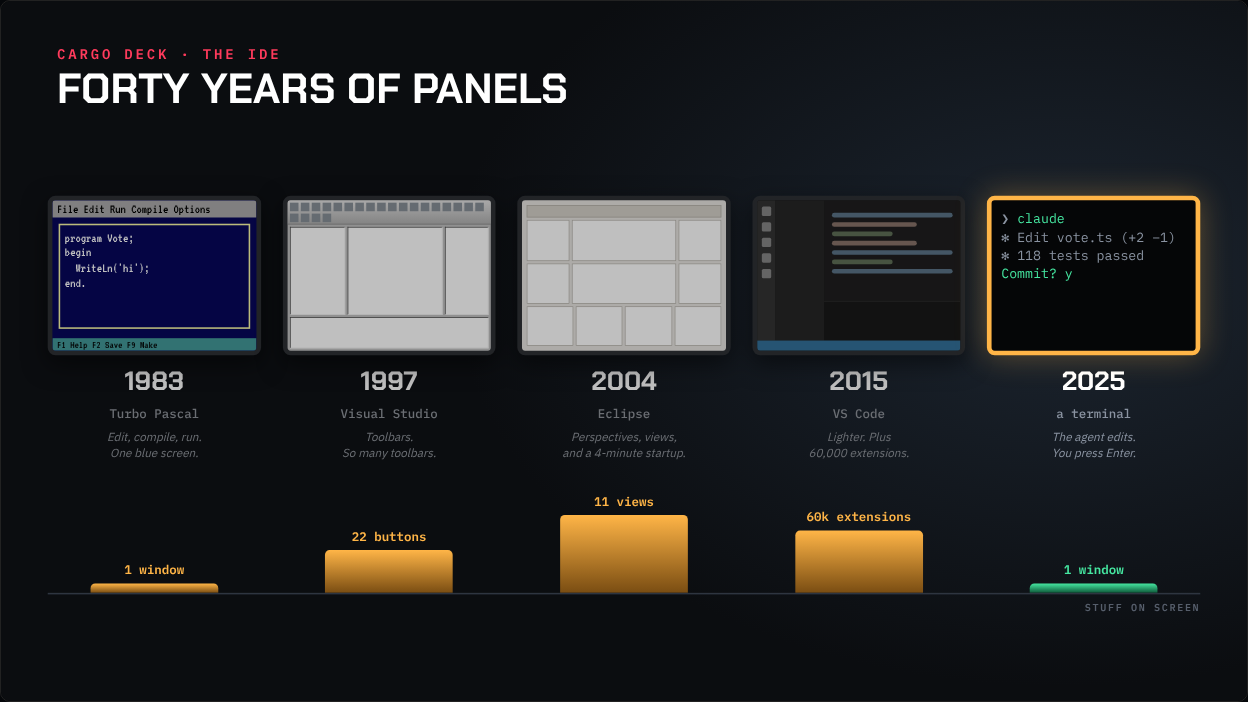
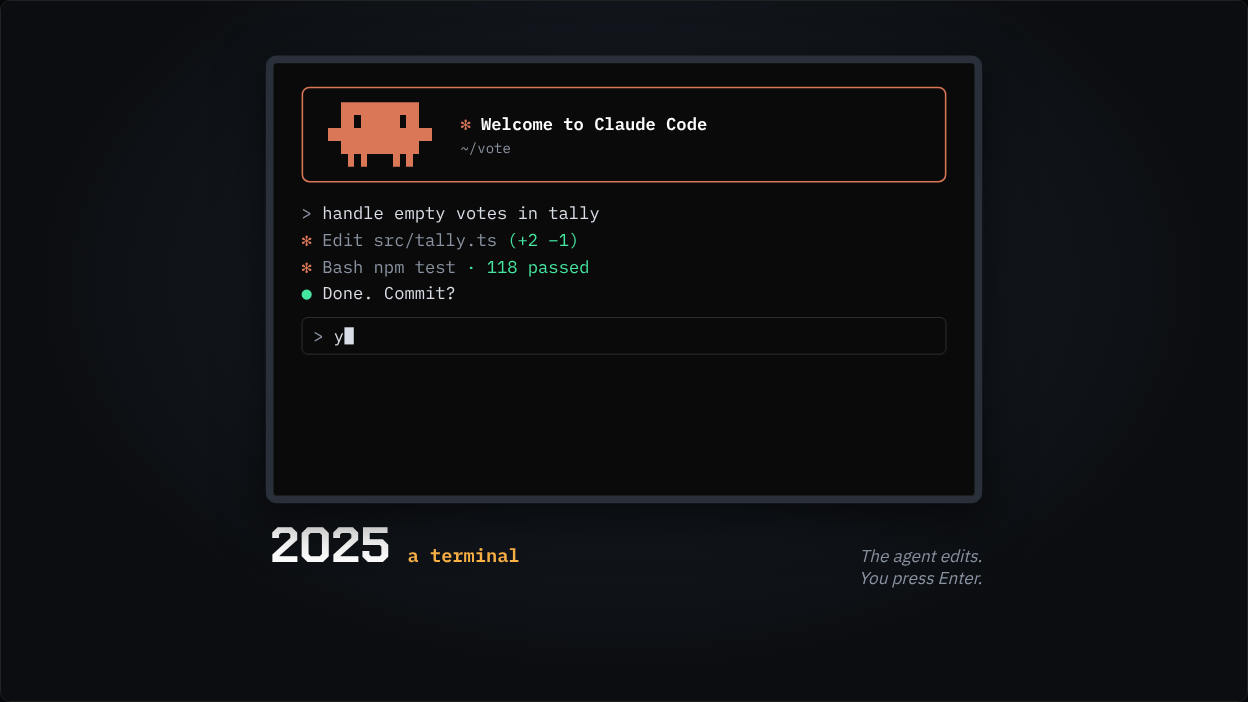
Mockups: IDE full circle, one era per screen, Claude Code mascot
Claude-Session: https://claude.ai/code/session_018ZYY71QbHcuRjYnMyN4ZYL

diff --git a/mockups/ide-fullcircle.html b/mockups/ide-fullcircle.html
@@ -8,7 +8,7 @@
 <style>
 :root {
   --bg: #0b0d10; --panel: #15191f; --line: #2e3540; --ink: #d9dee6; --muted: #8a93a1; --faint: #565e6b;
-  --awake: #45e6a0; --alien: #ff3b5c; --amber: #ffb547; --iso: #7fb8ff;
+  --awake: #45e6a0; --alien: #ff3b5c; --amber: #ffb547; --clawd: #d97757;
   --head: "Chakra Petch", "Eurostile", "Arial Narrow", sans-serif;
   --sans: "IBM Plex Sans", system-ui, sans-serif;
   --mono: "IBM Plex Mono", ui-monospace, Menlo, Consolas, monospace;
@@ -20,102 +20,178 @@ main { max-width: 1280px; margin: 0 auto; padding: 32px 16px 80px; }
 h1.page { font: 700 32px var(--head); margin: 0 0 6px; }
 p.lead { color: var(--muted); margin: 0 0 24px; line-height: 1.5; }
 .wrap { position: relative; width: 100%; aspect-ratio: 16 / 9; overflow: hidden; border-radius: 10px; border: 1px solid #222; cursor: pointer; }
-.slide { position: absolute; left: 0; top: 0; width: 1600px; height: 900px; transform-origin: 0 0; overflow: hidden; background: radial-gradient(1200px 800px at 85% 40%, #1c2530 0%, transparent 65%), var(--bg); }
+.slide { position: absolute; left: 0; top: 0; width: 1600px; height: 900px; transform-origin: 0 0; overflow: hidden; background: radial-gradient(1200px 800px at 50% 40%, #1c2530 0%, transparent 65%), var(--bg); }
 .ctl { display: flex; gap: 8px; align-items: center; margin-top: 8px; font: 600 13px var(--mono); color: var(--muted); flex-wrap: wrap; }
 .ctl button { font: 600 13px var(--mono); background: var(--panel); color: var(--ink); border: 1px solid var(--line); border-radius: 6px; padding: 6px 12px; cursor: pointer; }
 .ctl .cap { margin-left: 12px; }
-.hd { position: absolute; left: 72px; top: 56px; }
-.hd small { display: block; font: 600 18px var(--mono); letter-spacing: .2em; text-transform: uppercase; color: var(--alien); }
-.hd h3 { margin: 6px 0 0; font: 700 54px/1.05 var(--head); color: #fff; text-transform: uppercase; }
 
-.tl { position: absolute; left: 60px; right: 60px; top: 250px; display: grid; grid-template-columns: repeat(5, 1fr); gap: 28px; }
-.scr { display: grid; gap: 10px; justify-items: center; opacity: 0; transform: translateY(30px) scale(.92); transition: opacity .6s, transform .6s cubic-bezier(.3,1.4,.5,1), filter .6s; }
-.scr.in { opacity: 1; transform: none; }
-.scr.cur .mon { border-color: var(--amber); box-shadow: 0 0 40px rgba(255,181,71,.3); }
-.scr.past { filter: saturate(.5) brightness(.75); }
-.scr .mon { width: 100%; aspect-ratio: 4 / 3; border-radius: 10px; border: 6px solid #2a3039; overflow: hidden; position: relative; box-shadow: 0 10px 30px rgba(0,0,0,.5); transition: border-color .5s, box-shadow .5s; }
-.scr .y { font: 700 34px var(--head); color: #fff; }
-.scr .n { font: 500 16px var(--mono); color: var(--muted); text-align: center; }
-.scr .q { font: 400 15px/1.4 var(--sans); color: var(--muted); text-align: center; min-height: 42px; font-style: italic; }
+.era { position: absolute; left: 340px; top: 70px; width: 920px; opacity: 0; transform: scale(.94); transition: opacity .6s, transform .9s cubic-bezier(.5,0,.2,1); pointer-events: none; }
+.era.show { opacity: 1; transform: none; }
+.mon { width: 920px; height: 575px; border-radius: 14px; border: 10px solid #2a3039; overflow: hidden; position: relative; box-shadow: 0 20px 60px rgba(0,0,0,.6); transition: border-color .6s, box-shadow .6s; }
+.lbl { display: flex; align-items: baseline; gap: 22px; margin-top: 22px; padding-left: 6px; }
+.lbl .y { font: 700 64px/1 var(--head); color: #fff; }
+.lbl .n { font: 600 24px var(--mono); color: var(--amber); }
+.lbl .q { margin-left: auto; font: 400 22px var(--sans); color: var(--muted); font-style: italic; text-align: right; }
 
-.chart { position: absolute; left: 60px; right: 60px; top: 640px; height: 120px; display: grid; grid-template-columns: repeat(5, 1fr); gap: 28px; align-items: end; }
-.chart .b { justify-self: center; width: 60%; height: 0; border-radius: 6px 6px 0 0; background: linear-gradient(var(--amber), #7a4d12); position: relative; transition: height .9s cubic-bezier(.3,1.2,.5,1); }
-.chart .b span { position: absolute; left: 0; right: 0; top: -28px; text-align: center; font: 600 16px var(--mono); color: var(--amber); opacity: 0; transition: opacity .4s .5s; }
-.chart .b.in span { opacity: 1; }
-.chart .b.g { background: linear-gradient(var(--awake), #0e5a3a); } .chart .b.g span { color: var(--awake); }
-.axis { position: absolute; left: 60px; right: 60px; top: 760px; border-top: 2px solid var(--line); }
-.axis small { position: absolute; right: 0; top: 8px; font: 600 13px var(--mono); letter-spacing: .16em; text-transform: uppercase; color: var(--faint); }
-
-.m83 { background: #0000aa; font: 17px/1.15 var(--crt); color: #ffff55; }
-.m83 .mb { background: #aaaaaa; color: #000; padding: 1px 6px; }
-.m83 .bx { margin: 8px; border: 2px double #ffff55; height: 70%; padding: 6px; color: #fff; }
-.m83 .st { position: absolute; bottom: 0; left: 0; right: 0; background: #00aaaa; color: #000; padding: 0 6px; font-size: 14px; }
-.mvs { background: #c0c0c0; }
-.mvs .tb { height: 16%; background: linear-gradient(#e0e0e0,#b0b0b0); border-bottom: 1px solid #808080; display: flex; flex-wrap: wrap; gap: 3px; padding: 3px; }
-.mvs .tb i { width: 11px; height: 11px; background: #8090a0; }
-.mvs .bd { position: absolute; inset: 16% 0 0 0; display: grid; grid-template-columns: 28% 1fr 22%; grid-template-rows: 1fr 26%; gap: 3px; padding: 3px; }
-.mvs .bd div { background: #fff; border: 1px inset #999; } .mvs .bd .o { grid-column: 1 / -1; }
-.mec { background: #e8e4dc; }
-.mec .bd { position: absolute; inset: 6px; display: grid; grid-template-columns: 22% 1fr 22%; grid-template-rows: 9% 1fr 1fr 28%; gap: 3px; }
-.mec .bd div { background: #fff; border: 1px solid #b8b0a0; } .mec .bd .t { grid-column: 1 / -1; background: #d8d0c0; }
-.mec .bd .b { grid-column: 1 / -1; display: grid; grid-template-columns: 1fr 1fr 1fr 1fr; gap: 3px; background: none; border: 0; }
-.mvc { background: #1e1e1e; }
-.mvc .bd { position: absolute; inset: 0; display: grid; grid-template-columns: 9% 24% 1fr; grid-template-rows: 1fr 26% 7%; }
-.mvc .bd .ab { background: #333; grid-row: 1 / 3; display: grid; align-content: start; gap: 8px; padding: 8px 0; justify-items: center; }
-.mvc .bd .ab i { width: 12px; height: 12px; border-radius: 2px; background: #858585; }
-.mvc .bd .sb { background: #252526; grid-row: 1 / 3; }
-.mvc .bd .ed { background: #1e1e1e; padding: 10px; } .mvc .bd .ed i { display: block; height: 6px; margin: 6px 0; border-radius: 3px; background: #569cd6; opacity: .7; }
-.mvc .bd .ed i:nth-child(2n) { width: 70%; background: #ce9178; } .mvc .bd .ed i:nth-child(3n) { width: 50%; background: #6a9955; }
-.mvc .bd .tm { background: #181818; border-top: 1px solid #333; } .mvc .bd .st { grid-column: 1 / -1; background: #007acc; }
-.m25 { background: #050607; padding: 12px; font: 17px/1.4 var(--mono); color: var(--awake); }
-.m25 .d { color: var(--muted); }
-.cur-b { display: inline-block; width: 9px; height: 17px; background: currentColor; vertical-align: -3px; animation: blink 1s steps(1) infinite; }
-@keyframes blink { 50% { opacity: 0; } }
-
+.done .e0 { opacity: 1; transform: translate(-300px, 70px) scale(.6); }
+.done .e4 { opacity: 1; transform: translate(300px, 70px) scale(.6); }
+.done .e0 .mon, .done .e4 .mon { border-color: var(--awake); box-shadow: 0 0 70px rgba(69,230,160,.4); }
+.done .lbl .q { opacity: 0; }
 .arc { position: absolute; left: 0; top: 0; width: 1600px; height: 900px; pointer-events: none; }
-.arc path { fill: none; stroke: var(--awake); stroke-width: 4; stroke-dasharray: 1500; stroke-dashoffset: 1500; transition: stroke-dashoffset 1.6s ease; }
+.arc path { fill: none; stroke: var(--awake); stroke-width: 5; stroke-linecap: round; stroke-dasharray: 1300; stroke-dashoffset: 1300; transition: stroke-dashoffset 1.6s ease .6s; }
 .done .arc path { stroke-dashoffset: 0; }
-.done .scr:not(.s0):not(.s4) { opacity: .25; }
-.done .s0 .mon, .done .s4 .mon { border-color: var(--awake); box-shadow: 0 0 40px rgba(69,230,160,.35); }
-.done .s0, .done .s4 { filter: none; }
-.done .chart, .done .axis { opacity: 0; }
-.chart, .axis { transition: opacity .6s; }
-.fc { position: absolute; left: 0; right: 0; top: 790px; text-align: center; font: 700 40px var(--head); text-transform: uppercase; color: #fff; opacity: 0; transition: opacity .6s 1s; }
+.fc { position: absolute; left: 0; right: 0; top: 740px; text-align: center; font: 700 52px var(--head); text-transform: uppercase; color: #fff; opacity: 0; transition: opacity .6s 1.6s; }
 .fc em { font-style: normal; color: var(--awake); }
 .done .fc { opacity: 1; }
+.cur-b { display: inline-block; width: .55em; height: 1em; background: currentColor; vertical-align: -.15em; animation: blink 1s steps(1) infinite; }
+@keyframes blink { 50% { opacity: 0; } }
+
+/* 1983 Turbo Pascal */
+.m83 { background: #0000aa; font: 30px/1.15 var(--crt); color: #ffff55; }
+.m83 .mb { background: #aaaaaa; color: #000; padding: 2px 12px; display: flex; gap: 28px; }
+.m83 .mb b { color: #aa0000; font-weight: 400; }
+.m83 .bx { position: absolute; inset: 44px 14px 40px; border: 3px double #ffff55; padding: 14px 20px; color: #fff; }
+.m83 .bx .t { position: absolute; top: -18px; left: 50%; transform: translateX(-50%); background: #0000aa; padding: 0 10px; color: #ffff55; }
+.m83 .kw { color: #ffff55; }
+.m83 .st { position: absolute; bottom: 0; left: 0; right: 0; background: #00aaaa; color: #000; padding: 2px 12px; display: flex; gap: 30px; }
+
+/* 1997 Visual Studio */
+.mvs { background: #c0c0c0; font: 13px "Tahoma", "MS Sans Serif", sans-serif; color: #000; }
+.mvs .tt { height: 24px; background: linear-gradient(90deg, #000080, #1084d0); color: #fff; font-weight: 700; padding: 4px 8px; }
+.mvs .mn { display: flex; gap: 16px; padding: 3px 8px; border-bottom: 1px solid #808080; }
+.mvs .tb { display: flex; flex-wrap: wrap; gap: 3px; padding: 4px 6px; border-bottom: 1px solid #808080; }
+.mvs .tb i { width: 20px; height: 20px; background: linear-gradient(135deg, #dcdcdc, #9aa4b0); border: 1px outset #fff; }
+.mvs .tb i:nth-child(5n) { background: linear-gradient(135deg, #ffd860, #c09020); } .mvs .tb i:nth-child(7n) { background: linear-gradient(135deg, #8ab4ff, #2050b0); } .mvs .tb i:nth-child(11n) { margin-right: 10px; }
+.mvs .bd { position: absolute; top: 108px; left: 0; right: 0; bottom: 22px; display: grid; grid-template-columns: 210px 1fr 190px; grid-template-rows: 1fr 120px; gap: 4px; padding: 4px; }
+.mvs .p { background: #fff; border: 2px inset #ddd; padding: 6px; font-size: 12px; line-height: 1.6; overflow: hidden; }
+.mvs .p h5 { margin: -6px -6px 6px; padding: 2px 6px; background: #808080; color: #fff; font-size: 12px; }
+.mvs .code { font: 13px/1.6 "Courier New", monospace; } .mvs .code .k { color: #0000ff; } .mvs .code .c { color: #008000; }
+.mvs .o { grid-column: 1 / -1; font: 12px/1.5 "Courier New", monospace; }
+.mvs .sb { position: absolute; bottom: 0; left: 0; right: 0; height: 22px; border-top: 1px solid #fff; padding: 3px 8px; font-size: 12px; }
+
+/* 2004 Eclipse */
+.mec { background: #ece9d8; font: 12px "Tahoma", sans-serif; color: #000; }
+.mec .mn { display: flex; gap: 14px; padding: 3px 8px; }
+.mec .tb { display: flex; gap: 3px; padding: 3px 6px; border-bottom: 1px solid #aca899; }
+.mec .tb i { width: 18px; height: 18px; border-radius: 3px; background: linear-gradient(135deg, #e8e4d4, #a8a090); }
+.mec .tb i:nth-child(4n) { background: linear-gradient(135deg, #b8e0a0, #4a9a30); } .mec .tb i:nth-child(6n) { background: linear-gradient(135deg, #ffd0a0, #d06020); }
+.mec .persp { position: absolute; right: 8px; top: 24px; display: flex; gap: 4px; } .mec .persp span { border: 1px solid #aca899; padding: 1px 6px; background: #fff; border-radius: 3px; }
+.mec .bd { position: absolute; top: 52px; left: 0; right: 0; bottom: 20px; display: grid; grid-template-columns: 190px 1fr 180px; grid-template-rows: 1fr 1fr 150px; gap: 4px; padding: 4px; }
+.mec .v { background: #fff; border: 1px solid #7f9db9; overflow: hidden; display: flex; flex-direction: column; }
+.mec .v .tabs { display: flex; background: linear-gradient(#f4f3ee, #dcd9c8); border-bottom: 1px solid #7f9db9; }
+.mec .v .tabs span { padding: 2px 8px; border-right: 1px solid #c0bcae; white-space: nowrap; } .mec .v .tabs span.a { background: #fff; font-weight: 700; }
+.mec .v .c { padding: 5px 8px; line-height: 1.55; font-size: 11.5px; color: #333; }
+.mec .ed { grid-row: 1 / 3; } .mec .ed .c { font: 12.5px/1.6 "Courier New", monospace; } .mec .ed .k { color: #7f0055; font-weight: 700; } .mec .ed .s { color: #2a00ff; }
+.mec .tree { grid-row: 1 / 3; }
+.mec .bot { grid-column: 1 / -1; }
+.mec .sb { position: absolute; bottom: 0; left: 0; right: 0; height: 20px; padding: 2px 8px; border-top: 1px solid #aca899; }
+
+/* 2015 VS Code */
+.mvc { background: #1e1e1e; font: 13px "Segoe UI", system-ui, sans-serif; color: #ccc; }
+.mvc .bd { position: absolute; inset: 0 0 24px 0; display: grid; grid-template-columns: 52px 240px 1fr; grid-template-rows: 34px 1fr 160px; }
+.mvc .ab { background: #333; grid-row: 1 / 4; display: grid; align-content: start; gap: 22px; padding: 16px 0; justify-items: center; }
+.mvc .ab i { width: 24px; height: 24px; border-radius: 4px; border: 2px solid #858585; } .mvc .ab i:first-child { border-color: #fff; }
+.mvc .side { background: #252526; grid-row: 1 / 4; padding: 10px 14px; line-height: 1.85; font-size: 13px; } .mvc .side h5 { margin: 0 0 4px; font-size: 11px; letter-spacing: .1em; color: #bbb; }
+.mvc .tabs { display: flex; background: #252526; } .mvc .tabs span { padding: 8px 16px; background: #2d2d2d; border-right: 1px solid #1e1e1e; } .mvc .tabs span.a { background: #1e1e1e; color: #fff; }
+.mvc .ed { padding: 10px 0 0 20px; font: 15px/1.7 "Consolas", var(--mono); color: #d4d4d4; white-space: pre; }
+.mvc .ed .k { color: #569cd6; } .mvc .ed .f { color: #dcdcaa; } .mvc .ed .s { color: #ce9178; } .mvc .ed .c { color: #6a9955; } .mvc .ed .t { color: #4ec9b0; }
+.mvc .ed .sq { text-decoration: underline wavy #f14c4c; }
+.mvc .pop { position: absolute; left: 480px; top: 172px; width: 280px; background: #252526; border: 1px solid #454545; box-shadow: 0 6px 20px rgba(0,0,0,.5); font: 13px/1.9 var(--mono); }
+.mvc .pop div { padding: 0 10px; } .mvc .pop .a { background: #094771; color: #fff; }
+.mvc .term { border-top: 1px solid #333; padding: 8px 20px; font: 13px/1.6 var(--mono); color: #ccc; } .mvc .term .h { display: flex; gap: 20px; font: 11px var(--sans); letter-spacing: .08em; color: #888; margin-bottom: 6px; } .mvc .term .h b { color: #fff; border-bottom: 1px solid #fff; font-weight: 400; }
+.mvc .st { position: absolute; bottom: 0; left: 0; right: 0; height: 24px; background: #007acc; color: #fff; display: flex; gap: 20px; padding: 3px 12px; font-size: 12px; }
+
+/* 2025 terminal + Claude Code */
+.m25 { background: #0a0a0a; padding: 30px 36px; font: 22px/1.55 var(--mono); color: var(--ink); }
+.m25 .box { border: 2px solid var(--clawd); border-radius: 10px; padding: 18px 24px; display: flex; gap: 28px; align-items: center; margin-bottom: 22px; }
+.m25 .box svg { width: 150px; height: auto; flex: none; }
+.m25 .box b { color: #fff; font-weight: 600; } .m25 .box small { display: block; color: var(--muted); font-size: 18px; }
+.m25 .d { color: var(--muted); } .m25 .o { color: var(--clawd); } .m25 .g { color: var(--awake); }
+.m25 .prompt { margin-top: 14px; border: 1px solid #3a3a3a; border-radius: 8px; padding: 6px 14px; }
 </style>
 </head>
 <body>
 <main>
 <h1 class="page">The IDE · full circle</h1>
-<p class="lead">One click per era. The panel count grows each decade, then 2025 drops back to a single text window, like 1983. Last click draws the circle.</p>
+<p class="lead">One era per click, each on its own. Last click: 1983 and 2025 side by side, full circle.</p>
 <div class="wrap"><div class="slide" id="s">
-  <div class="hd"><small>Cargo deck · The IDE</small><h3>Forty years of panels</h3></div>
-  <svg class="arc" viewBox="0 0 1600 900"><path d="M190 640 C 400 800, 1200 800, 1410 640"/></svg>
-  <div class="tl">
-    <div class="scr s0"><div class="mon m83"><div class="mb"> File  Edit  Run  Compile  Options</div><div class="bx">program Vote;<br>begin<br>&nbsp;&nbsp;WriteLn('hi');<br>end.<span class="cur-b"></span></div><div class="st">F1 Help  F2 Save  F9 Make</div></div><div class="y">1983</div><div class="n">Turbo Pascal</div><div class="q">Edit, compile, run.<br>One blue screen.</div></div>
-    <div class="scr s1"><div class="mon mvs"><div class="tb"><i></i><i></i><i></i><i></i><i></i><i></i><i></i><i></i><i></i><i></i><i></i><i></i><i></i><i></i><i></i><i></i><i></i><i></i><i></i><i></i><i></i><i></i></div><div class="bd"><div></div><div></div><div></div><div class="o"></div></div></div><div class="y">1997</div><div class="n">Visual Studio</div><div class="q">Toolbars.<br>So many toolbars.</div></div>
-    <div class="scr s2"><div class="mon mec"><div class="bd"><div class="t"></div><div></div><div></div><div></div><div></div><div></div><div></div><div class="b"><div></div><div></div><div></div><div></div></div></div></div><div class="y">2004</div><div class="n">Eclipse</div><div class="q">Perspectives, views,<br>and a 4-minute startup.</div></div>
-    <div class="scr s3"><div class="mon mvc"><div class="bd"><div class="ab"><i></i><i></i><i></i><i></i><i></i></div><div class="sb"></div><div class="ed"><i></i><i></i><i></i><i></i><i></i><i></i><i></i></div><div class="tm"></div><div class="st"></div></div></div><div class="y">2015</div><div class="n">VS Code</div><div class="q">Lighter. Plus<br>60,000 extensions.</div></div>
-    <div class="scr s4"><div class="mon m25"><span class="d">❯</span> claude<br><span class="d">✻ Edit vote.ts (+2 −1)</span><br><span class="d">✻ 118 tests passed</span><br>Commit? y<br><span class="cur-b"></span></div><div class="y">2025</div><div class="n">a terminal</div><div class="q">The agent edits.<br>You press Enter.</div></div>
-  </div>
-  <div class="chart"><div class="b" data-h="12"><span>1 window</span></div><div class="b" data-h="55"><span>22 buttons</span></div><div class="b" data-h="100"><span>11 views</span></div><div class="b" data-h="80"><span>60k extensions</span></div><div class="b g" data-h="12"><span>1 window</span></div></div>
-  <div class="axis"><small>stuff on screen</small></div>
+
+  <div class="era e0"><div class="mon m83">
+    <div class="mb"><span><b>F</b>ile</span><span><b>E</b>dit</span><span><b>R</b>un</span><span><b>C</b>ompile</span><span><b>O</b>ptions</span></div>
+    <div class="bx"><span class="t">VOTE.PAS</span><span class="kw">program</span> Vote;<br><span class="kw">var</span> total: Integer;<br><span class="kw">begin</span><br>&nbsp;&nbsp;total := 0;<br>&nbsp;&nbsp;WriteLn('Votes: ', total);<br><span class="kw">end</span>.<span class="cur-b"></span></div>
+    <div class="st"><span>F1 Help</span><span>F2 Save</span><span>F3 Load</span><span>F9 Make</span><span>F10 Menu</span></div>
+  </div><div class="lbl"><span class="y">1983</span><span class="n">Turbo Pascal</span><span class="q">Edit, compile, run.<br>One blue screen.</span></div></div>
+
+  <div class="era e1"><div class="mon mvs">
+    <div class="tt">Microsoft Developer Studio - Vote - [vote.cpp]</div>
+    <div class="mn"><span>File</span><span>Edit</span><span>View</span><span>Insert</span><span>Project</span><span>Build</span><span>Tools</span><span>Window</span><span>Help</span></div>
+    <div class="tb"><i></i><i></i><i></i><i></i><i></i><i></i><i></i><i></i><i></i><i></i><i></i><i></i><i></i><i></i><i></i><i></i><i></i><i></i><i></i><i></i><i></i><i></i><i></i><i></i><i></i><i></i><i></i><i></i><i></i><i></i><i></i><i></i><i></i><i></i><i></i><i></i><i></i><i></i><i></i><i></i><i></i><i></i><i></i><i></i></div>
+    <div class="bd">
+      <div class="p"><h5>Workspace</h5>📁 Vote files<br>&nbsp;&nbsp;📁 Source Files<br>&nbsp;&nbsp;&nbsp;&nbsp;📄 vote.cpp<br>&nbsp;&nbsp;&nbsp;&nbsp;📄 tally.cpp<br>&nbsp;&nbsp;📁 Header Files<br>&nbsp;&nbsp;📁 Resource Files</div>
+      <div class="p code"><span class="k">#include</span> &lt;stdio.h&gt;<br><br><span class="k">int</span> tally(<span class="k">int</span>* v, <span class="k">int</span> n) {<br>&nbsp;&nbsp;<span class="k">int</span> total = 0;<br>&nbsp;&nbsp;<span class="k">for</span> (<span class="k">int</span> i = 0; i &lt; n; i++)<br>&nbsp;&nbsp;&nbsp;&nbsp;total += v[i];<br>&nbsp;&nbsp;<span class="k">return</span> total; <span class="c">// TODO</span><br>}</div>
+      <div class="p"><h5>Properties</h5>Name: tally<br>Type: int<br>Calling: __cdecl<br>Inline: No<br>Debug: Yes</div>
+      <div class="p o"><h5>Output</h5>--------------------Configuration: Vote - Win32 Debug--------------------<br>Compiling...<br>vote.cpp<br>Vote.exe - 0 error(s), 3 warning(s)</div>
+    </div>
+    <div class="sb">Ready</div>
+  </div><div class="lbl"><span class="y">1997</span><span class="n">Visual Studio</span><span class="q">Toolbars.<br>So many toolbars.</span></div></div>
+
+  <div class="era e2"><div class="mon mec">
+    <div class="mn"><span>File</span><span>Edit</span><span>Source</span><span>Refactor</span><span>Navigate</span><span>Search</span><span>Project</span><span>Run</span><span>Window</span><span>Help</span></div>
+    <div class="tb"><i></i><i></i><i></i><i></i><i></i><i></i><i></i><i></i><i></i><i></i><i></i><i></i><i></i><i></i><i></i><i></i><i></i><i></i></div>
+    <div class="persp"><span>Java</span><span>Debug</span><span>CVS</span><span>Team Sync</span></div>
+    <div class="bd">
+      <div class="v tree"><div class="tabs"><span class="a">Package Explorer</span><span>Hierarchy</span></div><div class="c">▾ vote<br>&nbsp;&nbsp;▾ src<br>&nbsp;&nbsp;&nbsp;&nbsp;▾ be.vote<br>&nbsp;&nbsp;&nbsp;&nbsp;&nbsp;&nbsp;Vote.java<br>&nbsp;&nbsp;&nbsp;&nbsp;&nbsp;&nbsp;Tally.java<br>&nbsp;&nbsp;&nbsp;&nbsp;&nbsp;&nbsp;TallyFactory.java<br>&nbsp;&nbsp;&nbsp;&nbsp;&nbsp;&nbsp;TallyFactoryImpl.java<br>&nbsp;&nbsp;▸ JRE System Library<br>&nbsp;&nbsp;▸ lib</div></div>
+      <div class="v ed"><div class="tabs"><span class="a">Tally.java</span><span>Vote.java</span><span>TallyFactoryImpl.java</span></div><div class="c"><span class="k">public class</span> Tally {<br>&nbsp;&nbsp;<span class="k">private final</span> List&lt;Vote&gt; votes;<br><br>&nbsp;&nbsp;<span class="k">public int</span> total() {<br>&nbsp;&nbsp;&nbsp;&nbsp;<span class="k">int</span> t = 0;<br>&nbsp;&nbsp;&nbsp;&nbsp;<span class="k">for</span> (Vote v : votes) t += v.n();<br>&nbsp;&nbsp;&nbsp;&nbsp;<span class="k">return</span> t;<br>&nbsp;&nbsp;}<br>}</div></div>
+      <div class="v"><div class="tabs"><span class="a">Outline</span></div><div class="c">◆ Tally<br>&nbsp;&nbsp;▫ votes<br>&nbsp;&nbsp;● total()</div></div>
+      <div class="v"><div class="tabs"><span class="a">Ant</span><span>Tasks</span></div><div class="c">▸ build.xml<br>&nbsp;&nbsp;compile<br>&nbsp;&nbsp;jar</div></div>
+      <div class="v bot"><div class="tabs"><span class="a">Problems</span><span>Javadoc</span><span>Declaration</span><span>Console</span><span>Search</span><span>Progress</span></div><div class="c">⚠ 47 warnings<br>⚠ The import java.util.Date is never used<br>⚠ Serializable class Tally does not declare a serialVersionUID</div></div>
+    </div>
+    <div class="sb">Building workspace (63%)</div>
+  </div><div class="lbl"><span class="y">2004</span><span class="n">Eclipse</span><span class="q">Perspectives, views,<br>and a 4-minute startup.</span></div></div>
+
+  <div class="era e3"><div class="mon mvc">
+    <div class="bd">
+      <div class="ab"><i></i><i></i><i></i><i></i><i></i></div>
+      <div class="side"><h5>EXPLORER</h5>▾ VOTE<br>&nbsp;&nbsp;▾ src<br>&nbsp;&nbsp;&nbsp;&nbsp;vote.ts<br>&nbsp;&nbsp;&nbsp;&nbsp;tally.ts<br>&nbsp;&nbsp;▸ node_modules<br>&nbsp;&nbsp;package.json<br>&nbsp;&nbsp;tsconfig.json<br><br><h5>EXTENSIONS · 47 INSTALLED</h5>Prettier<br>ESLint<br>GitLens<br>Copilot</div>
+      <div class="tabs"><span class="a">tally.ts</span><span>vote.ts</span><span>package.json</span></div>
+      <div class="ed"><span class="k">export function</span> <span class="f">tally</span>(votes: <span class="t">Vote</span>[]) {
+  <span class="k">const</span> total = votes.<span class="f">reduce</span>((a, v) =&gt; a + v.n, 0)
+  <span class="k">return</span> votes.<span class="f">ma</span><span class="cur-b"></span>
+}
+<span class="c">// TODO: handle empty votes</span></div>
+      <div class="term"><div class="h"><b>TERMINAL</b><span>PROBLEMS 1</span><span>OUTPUT</span><span>DEBUG CONSOLE</span></div>$ npm run dev<br>ready on :5173</div>
+    </div>
+    <div class="pop"><div class="a">⬡ map</div><div>⬡ filter</div><div>⬡ flatMap</div><div>⬡ find</div></div>
+    <div class="st"><span>⎇ main</span><span>⊗ 0 ⚠ 1</span><span style="margin-left:auto">Ln 3, Col 22</span><span>TypeScript</span><span>Prettier ✓</span></div>
+  </div><div class="lbl"><span class="y">2015</span><span class="n">VS Code</span><span class="q">Lighter. Plus<br>60,000 extensions.</span></div></div>
+
+  <div class="era e4"><div class="mon m25">
+    <div class="box">
+      <svg viewBox="0 0 18 10" shape-rendering="crispEdges" aria-label="Claude Code mascot"><g fill="#d97757"><rect x="3" y="0" width="1" height="2"/><rect x="4" y="0" width="1" height="2"/><rect x="5" y="0" width="1" height="2"/><rect x="6" y="0" width="1" height="2"/><rect x="7" y="0" width="1" height="2"/><rect x="8" y="0" width="1" height="2"/><rect x="9" y="0" width="1" height="2"/><rect x="10" y="0" width="1" height="2"/><rect x="11" y="0" width="1" height="2"/><rect x="12" y="0" width="1" height="2"/><rect x="13" y="0" width="1" height="2"/><rect x="14" y="0" width="1" height="2"/><rect x="3" y="2" width="1" height="2"/><rect x="4" y="2" width="1" height="2"/><rect x="6" y="2" width="1" height="2"/><rect x="7" y="2" width="1" height="2"/><rect x="8" y="2" width="1" height="2"/><rect x="9" y="2" width="1" height="2"/><rect x="10" y="2" width="1" height="2"/><rect x="11" y="2" width="1" height="2"/><rect x="13" y="2" width="1" height="2"/><rect x="14" y="2" width="1" height="2"/><rect x="1" y="4" width="1" height="2"/><rect x="2" y="4" width="1" height="2"/><rect x="3" y="4" width="1" height="2"/><rect x="4" y="4" width="1" height="2"/><rect x="5" y="4" width="1" height="2"/><rect x="6" y="4" width="1" height="2"/><rect x="7" y="4" width="1" height="2"/><rect x="8" y="4" width="1" height="2"/><rect x="9" y="4" width="1" height="2"/><rect x="10" y="4" width="1" height="2"/><rect x="11" y="4" width="1" height="2"/><rect x="12" y="4" width="1" height="2"/><rect x="13" y="4" width="1" height="2"/><rect x="14" y="4" width="1" height="2"/><rect x="15" y="4" width="1" height="2"/><rect x="16" y="4" width="1" height="2"/><rect x="3" y="6" width="1" height="2"/><rect x="4" y="6" width="1" height="2"/><rect x="5" y="6" width="1" height="2"/><rect x="6" y="6" width="1" height="2"/><rect x="7" y="6" width="1" height="2"/><rect x="8" y="6" width="1" height="2"/><rect x="9" y="6" width="1" height="2"/><rect x="10" y="6" width="1" height="2"/><rect x="11" y="6" width="1" height="2"/><rect x="12" y="6" width="1" height="2"/><rect x="13" y="6" width="1" height="2"/><rect x="14" y="6" width="1" height="2"/><rect x="4" y="8" width="1" height="2"/><rect x="6" y="8" width="1" height="2"/><rect x="11" y="8" width="1" height="2"/><rect x="13" y="8" width="1" height="2"/></g></svg>
+      <div><b><span class="o">✻</span> Welcome to Claude Code</b><small>~/vote</small></div>
+    </div>
+    <div><span class="d">&gt;</span> handle empty votes in tally</div>
+    <div class="d"><span class="o">✻</span> Edit src/tally.ts <span class="g">(+2 −1)</span></div>
+    <div class="d"><span class="o">✻</span> Bash npm test <span class="g">· 118 passed</span></div>
+    <div><span class="g">●</span> Done. Commit?</div>
+    <div class="prompt"><span class="d">&gt;</span> y<span class="cur-b"></span></div>
+  </div><div class="lbl"><span class="y">2025</span><span class="n">a terminal</span><span class="q">The agent edits.<br>You press Enter.</span></div></div>
+
+  <svg class="arc" viewBox="0 0 1600 900"><path d="M500 262 C 640 110, 960 110, 1100 262"/></svg>
   <div class="fc">Full circle: <em>a text screen and a blinking cursor.</em></div>
 </div></div>
 <div class="ctl"><button data-act="prev">Prev</button><button data-act="next">Next</button><button data-act="reset">Reset</button><span class="cap"></span></div>
 </main>
 <script>
-const CAPS = ['1983: Turbo Pascal. Edit, compile, run, one blue screen.', '1997: Visual Studio. Toolbars.', '2004: Eclipse. Perspectives and views.', '2015: VS Code. Lighter, plus 60,000 extensions.', '2025: a terminal. The agent edits, you press Enter.', 'Full circle: a text screen and a blinking cursor.'];
+const CAPS = ['1983: Turbo Pascal.', '1997: Visual Studio.', '2004: Eclipse.', '2015: VS Code.', '2025: a terminal, and Claude.', 'Full circle.'];
 const MAX = CAPS.length - 1;
 const slide = document.getElementById('s'), wrap = slide.parentElement, cap = document.querySelector('.cap');
-const scrs = [...slide.querySelectorAll('.scr')], bars = [...slide.querySelectorAll('.chart .b')];
+const eras = [...slide.querySelectorAll('.era')];
 let st = 0;
 const go = n => {
   st = Math.max(0, Math.min(MAX, n));
-  scrs.forEach((s, i) => { s.classList.toggle('in', i <= st); s.classList.toggle('cur', i === st && st < 5); s.classList.toggle('past', i < st && st < 5); });
-  bars.forEach((b, i) => { const on = i <= st; b.classList.toggle('in', on); b.style.height = on ? b.dataset.h + 'px' : '0px'; });
-  slide.classList.toggle('done', st === 5);
+  eras.forEach((e, i) => e.classList.toggle('show', i === st));
+  slide.classList.toggle('done', st === MAX);
   cap.textContent = `step ${st}/${MAX} · ${CAPS[st]}`;
 };
 window.go = go;
